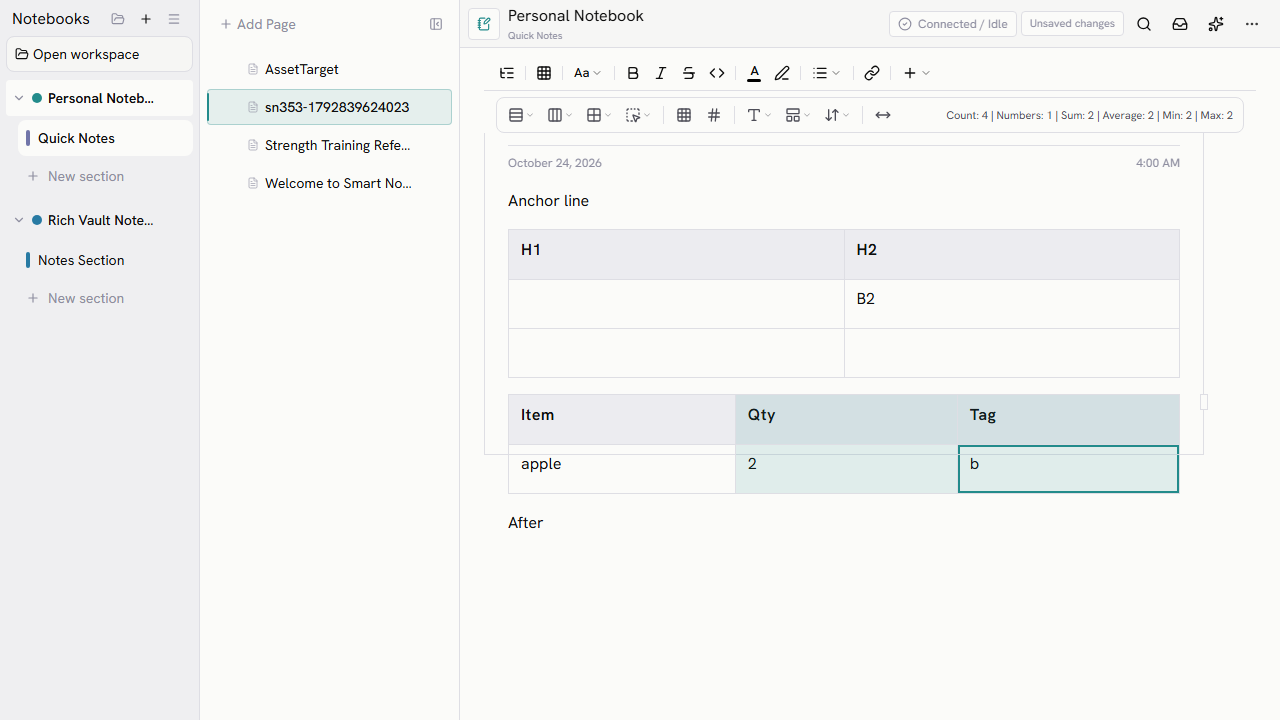
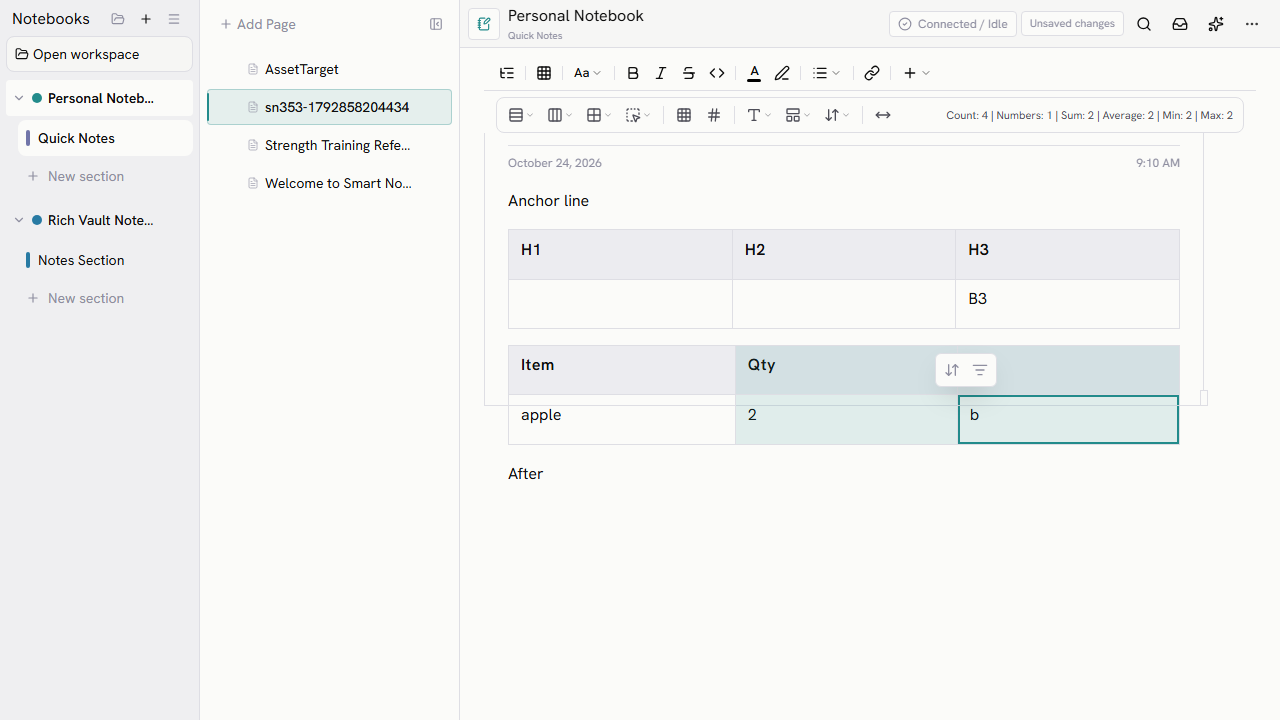
SN-355 Keep header sort and filter controls inside cells

diff --git a/src/components/table-header-tools.tsx b/src/components/table-header-tools.tsx
@@ -7,9 +7,6 @@ import { TableMap } from "@tiptap/pm/tables";
 import { ArrowDownUp, ListFilter } from "lucide-react";
 import { filterHeaderColumnCommand, sortHeaderColumnCommand, tableColumnValues } from "@/lib/table-ribbon";
 
-/** Desktop toolbar height: 28px button + 2px padding x2 + 1px border x2. */
-const TOOLS_HEIGHT_PX = 34;
-
 interface HeaderAnchor {
   cell: HTMLTableCellElement;
   tablePos: number;
@@ -17,11 +14,13 @@ interface HeaderAnchor {
   rect: DOMRect;
 }
 
-/** Pointer affordances for the first header row. The portal stays outside editable table markup. */
+/** Keep controls visually inside the header without mutating ProseMirror's cell DOM. */
 export function TableHeaderTools({ editor }: { editor: Editor | null }) {
   const [anchor, setAnchor] = React.useState<HeaderAnchor | null>(null);
   const [filterOpen, setFilterOpen] = React.useState(false);
   const toolsRef = React.useRef<HTMLDivElement>(null);
+  const menuRef = React.useRef<HTMLDivElement>(null);
+  const filterButtonRef = React.useRef<HTMLButtonElement>(null);
   const hideTimer = React.useRef<number | null>(null);
 
   const cancelHide = React.useCallback(() => {
@@ -53,7 +52,7 @@ export function TableHeaderTools({ editor }: { editor: Editor | null }) {
       }
       if (tablePos < 0) return;
       const table = editor.state.doc.nodeAt(tablePos);
-      if (!table || table.childCount < 2) return;
+      if (!table) return;
       const map = TableMap.get(table);
       if (new Set(map.map).size !== map.width * map.height) return;
       cancelHide();
@@ -78,7 +77,7 @@ export function TableHeaderTools({ editor }: { editor: Editor | null }) {
       setAnchor((current) => current ? { ...current, rect: current.cell.getBoundingClientRect() } : null);
     };
     const outside = (event: PointerEvent) => {
-      if (toolsRef.current?.contains(event.target as Node) || anchor.cell.contains(event.target as Node)) return;
+      if (toolsRef.current?.contains(event.target as Node) || menuRef.current?.contains(event.target as Node) || anchor.cell.contains(event.target as Node)) return;
       setFilterOpen(false);
       setAnchor(null);
     };
@@ -97,10 +96,13 @@ export function TableHeaderTools({ editor }: { editor: Editor | null }) {
   if (!table || table.type.name !== "table") return null;
   const values = tableColumnValues(table, anchor.column);
   const currentValue = (table.attrs.columnFilters as Record<string, string> ?? {})[anchor.column];
-  const label = anchor.cell.textContent?.trim() || `Column ${anchor.column + 1}`;
-  const left = Math.max(0, Math.min(anchor.rect.right, window.innerWidth));
-  // Tools render above the header (translateY(-100%)); keep them on-screen near the viewport top.
-  const top = Math.max(TOOLS_HEIGHT_PX, anchor.rect.top);
+  const label = anchor.cell.querySelector("p")?.textContent?.trim() || `Column ${anchor.column + 1}`;
+  const filterRect = filterButtonRef.current?.getBoundingClientRect();
+  const coarse = window.matchMedia("(pointer: coarse)").matches;
+  const toolWidth = coarse ? 94 : 62;
+  const toolHeight = coarse ? 50 : 34;
+  const left = Math.max(anchor.rect.left, anchor.rect.right - toolWidth - 2);
+  const top = anchor.rect.top + Math.max(0, (anchor.rect.height - toolHeight) / 2);
   const run = (command: ReturnType<typeof sortHeaderColumnCommand>) => {
     command(editor.state, editor.view.dispatch);
     setAnchor(null);
@@ -112,21 +114,23 @@ export function TableHeaderTools({ editor }: { editor: Editor | null }) {
     setFilterOpen(false);
   };
 
-  return createPortal(
+  return <>{createPortal(
     <div ref={toolsRef} className="table-header-tools" style={{ left, top }} onPointerEnter={cancelHide} onPointerLeave={hideSoon} onPointerDown={(event) => event.preventDefault()}>
       <div className="table-header-tools__buttons">
         <button type="button" aria-label={`Sort ${label} column`} title={`Sort ${label} column`} data-testid="table-header-sort" data-active={table.attrs.sortColumn === anchor.column || undefined} onClick={() => run(sortHeaderColumnCommand(anchor.tablePos, anchor.column))}>
           <ArrowDownUp aria-hidden="true" />
         </button>
-        <button type="button" aria-label={`Filter ${label} column`} title={`Filter ${label} column`} data-testid="table-header-filter" data-active={currentValue !== undefined || undefined} aria-expanded={filterOpen} onClick={() => setFilterOpen((open) => !open)}>
+        <button ref={filterButtonRef} type="button" aria-label={`Filter ${label} column`} title={`Filter ${label} column`} data-testid="table-header-filter" data-active={currentValue !== undefined || undefined} aria-expanded={filterOpen} onClick={() => setFilterOpen((open) => !open)}>
           <ListFilter aria-hidden="true" />
         </button>
       </div>
-      {filterOpen ? <div className="table-header-tools__menu" role="menu" aria-label={`Filter ${label} column`} data-testid="table-header-filter-menu">
-        <button type="button" role="menuitemradio" aria-checked={currentValue === undefined} onClick={() => filter(null)}>All rows</button>
-        {values.map((value, index) => <button key={value} type="button" role="menuitemradio" aria-checked={currentValue === value} data-testid={`table-filter-option-${index}`} onClick={() => filter(value)}>{value || "(Blank)"}</button>)}
-      </div> : null}
     </div>,
     document.body,
-  );
+  )}{filterOpen && filterRect ? createPortal(
+      <div ref={menuRef} className="table-header-tools__menu" style={{ top: filterRect.bottom + 2, left: Math.max(0, Math.min(filterRect.left, window.innerWidth - 128)) }} role="menu" aria-label={`Filter ${label} column`} data-testid="table-header-filter-menu" onPointerDown={(event) => event.preventDefault()}>
+        <button type="button" role="menuitemradio" aria-checked={currentValue === undefined} onClick={() => filter(null)}>All rows</button>
+        {values.map((value, index) => <button key={value} type="button" role="menuitemradio" aria-checked={currentValue === value} data-testid={`table-filter-option-${index}`} onClick={() => filter(value)}>{value || "(Blank)"}</button>)}
+      </div>,
+      document.body,
+    ) : null}</>;
 }

diff --git a/e2e/sn-353-355-table-authoring.spec.ts b/e2e/sn-353-355-table-authoring.spec.ts
@@ -55,9 +55,13 @@ test("SN-353/354/355: keyboard table growth, axis delete, header sort and filter
     await expect(grown.locator("tr")).toHaveCount(1);
     await expect(grown.locator("tr").first().locator("th")).toHaveCount(2);
     await page.keyboard.type("H1");
-    await grown.locator("th").nth(1).click();
+    await grown.locator("th").nth(1).locator("p").click();
     await page.keyboard.type("H2");
+    await expect(grown.locator("th").nth(1)).toHaveText("H2");
+    expect(await page.evaluate(() => window.getSelection()?.anchorNode?.parentElement?.closest("th")?.cellIndex)).toBe(1);
+    expect(await page.evaluate(() => window.getSelection()?.isCollapsed)).toBe(true);
     await page.keyboard.press("Tab");
+    await expect(grown.locator("tr")).toHaveCount(1);
     await expect(grown.locator("tr").first().locator("th")).toHaveCount(3);
     await page.keyboard.type("H3");
     await page.keyboard.press("Enter");
@@ -77,6 +81,12 @@ test("SN-353/354/355: keyboard table growth, axis delete, header sort and filter
     await expect(sort).toHaveCount(0);
     await data.locator("th").first().hover();
     await expect(sort).toBeVisible();
+    const insideHeader = await sort.evaluate((button, cell) => {
+      const icon = button.getBoundingClientRect();
+      const header = (cell as HTMLElement).getBoundingClientRect();
+      return icon.left >= header.left && icon.right <= header.right && icon.top >= header.top && icon.bottom <= header.bottom;
+    }, await data.locator("th").first().elementHandle());
+    expect(insideHeader).toBe(true);
     await page.screenshot({ path: path.join(EVIDENCE_DIR, "sn355-header-hover.png") });
     await sort.click();
     const firstColumn = () => data.locator("tr td:first-child").allTextContents();

diff --git a/src/app/globals.css b/src/app/globals.css
@@ -939,12 +939,13 @@ body.page-print-active .floating-text-box__resize-width { display: none; }
 }
 .editor-content .selectedCell { position: relative; }
 
-/* SN-355: header tools are a portal, so they never enter saved table HTML. */
+/* SN-355: tools occupy the hovered header's right edge without changing editable DOM. */
+.editor-content th:hover {
+  padding-right: calc(2 * var(--table-ribbon-button-size) + 0.75em);
+}
 .table-header-tools {
   position: fixed;
   z-index: 40;
-  /* Sit just above the header cell's right edge so narrow headers keep their text visible. */
-  transform: translate(-100%, -100%);
   color: var(--foreground);
   font-family: var(--font-sans);
 }
@@ -971,10 +972,8 @@ body.page-print-active .floating-text-box__resize-width { display: none; }
 .table-header-tools button:focus-visible { outline: 2px solid var(--ring); outline-offset: 2px; }
 .table-header-tools__buttons svg { width: var(--table-ribbon-icon-size); height: var(--table-ribbon-icon-size); }
 .table-header-tools__menu {
-  position: absolute;
-  top: 100%;
-  right: 0;
-  margin-top: 2px;
+  position: fixed;
+  z-index: 41;
   display: grid;
   width: max-content;
   min-width: 8rem;

diff --git a/Docs/sysdoc/smart-notes.md b/Docs/sysdoc/smart-notes.md
@@ -1069,7 +1069,7 @@ The fork has two toolbar buttons (outline, paper) before the grid button. On mai
 
 **Delete selection (SN-354):** With a CellSelection spanning complete columns, Delete removes those columns; with one spanning complete rows, it removes those rows. Selecting the entire table and pressing Delete removes the table cleanly. Other cell selections retain normal content deletion. The command uses prosemirror-tables structural deletes, so remaining cell content and selection chrome stay valid.
 
-**Header sort and filter (SN-355):** Hovering a first-row header cell (`th`) of a table with at least two rows and no merged cells shows a compact Sort/Filter pair above the header's right edge; it hides 120ms after the pointer leaves the header and its tools, so headers carry no permanent chrome. The tools are `TableHeaderTools` (`src/components/table-header-tools.tsx`), portalled to `document.body` so they never enter saved table HTML. Sort (`sortHeaderColumnCommand`) reorders body rows only (header rows stay pinned), toggling ascending/descending using the ribbon's `compareCellText`, and stores `data-sort-column` / `data-sort-direction` on the table. Filter opens a menu of the column's distinct body values (plus `All rows` and `(Blank)`); `filterHeaderColumnCommand` stores an exact-match map in `data-column-filters`, and the `TableRibbonSupport` decoration plugin hides non-matching body rows with `display: none` (decoration only; row content is never removed). Filters on column indexes beyond the current width are ignored. An icon tints `--accent` while its sort or filter is active. Tokens: `--popover`, `--border`, `--radius-sm`, `--shadow-popover`, `--secondary`, `--muted-foreground`, `--ring`, `--table-ribbon-button-size/-icon-size`; 44px buttons on coarse pointers.
+**Header sort and filter (SN-355):** Hovering a first-row header cell (`th`) of a table without merged cells shows a compact Sort/Filter pair inside the header's right edge; it hides 120ms after the pointer leaves the header and its tools, so headers carry no permanent chrome. The pointer crosses no gap between the header and its tools. The tools are `TableHeaderTools` (`src/components/table-header-tools.tsx`), portalled to `document.body` but positioned within the header bounds so they never enter saved table HTML. Sort (`sortHeaderColumnCommand`) reorders body rows only (header rows stay pinned), toggling ascending/descending using the ribbon's `compareCellText`, and stores `data-sort-column` / `data-sort-direction` on the table. Filter opens a menu of the column's distinct body values (plus `All rows` and `(Blank)`); `filterHeaderColumnCommand` stores an exact-match map in `data-column-filters`, and the `TableRibbonSupport` decoration plugin hides non-matching body rows with `display: none` (decoration only; row content is never removed). Filters on column indexes beyond the current width are ignored. An icon tints `--accent` while its sort or filter is active. Tokens: `--popover`, `--border`, `--radius-sm`, `--shadow-popover`, `--secondary`, `--muted-foreground`, `--ring`, `--table-ribbon-button-size/-icon-size`; 44px buttons on coarse pointers.
 
 ### Table context menu and icon ribbon (SN-308)
 

diff --git a/Docs/design-system/README.md b/Docs/design-system/README.md
@@ -110,7 +110,7 @@ No new tokens.
 
 Ribbon controls are icon-only (lucide) with tooltips and `aria-label`s, separated by 1px `--border` dividers. New tokens: `--table-ribbon-button-size: 28px` (desktop icon button) and `--table-ribbon-icon-size: 16px`. Mobile buttons keep the 44px touch target; the mobile stats chip is a pill using `--surface`, `--border`, and `--accent` when expanded. The table context menu reuses the editor context-menu styles; Delete table uses `--destructive` text with a 10% `--destructive` hover tint, matching the comment popover's destructive button.
 
-Table header Sort/Filter tools (SN-355) appear only on header hover as a `--popover` / `--border` / `--radius-sm` / `--shadow-popover` pill of two `--table-ribbon-button-size` lucide icon buttons (`--muted-foreground`, hover `--secondary`, active sort/filter `--accent`, `--ring` focus, 44px on coarse pointers). The filter menu reuses the same surface with 12px text and `--secondary` for the checked value. No new design values.
+Table header Sort/Filter tools (SN-355) appear inside the hovered header cell as a `--popover` / `--border` / `--radius-sm` / `--shadow-popover` pill of two `--table-ribbon-button-size` lucide icon buttons (`--muted-foreground`, hover `--secondary`, active sort/filter `--accent`, `--ring` focus, 44px on coarse pointers). The filter menu reuses the same surface with 12px text and `--secondary` for the checked value. No new design values.
 
 ## Job Inbox App mobile-first ribbon (SN-309)
 
